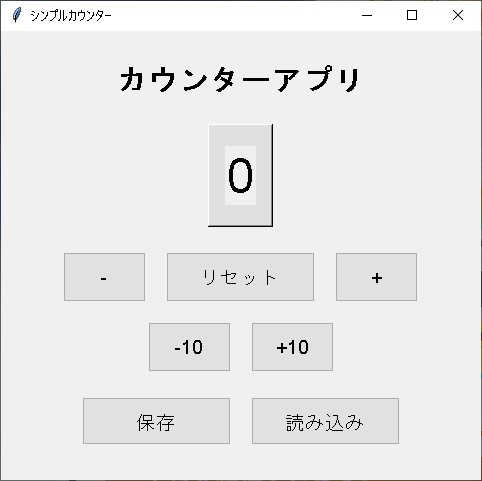
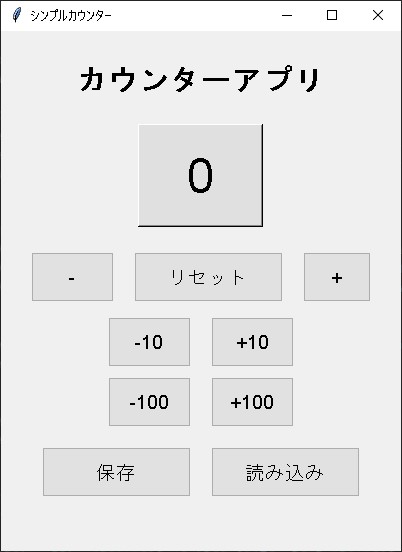
add +-100 and prohibit less than 0

diff --git a/counter_app.py b/counter_app.py
@@ -9,13 +9,14 @@ class CounterApp:
         
         # ウィンドウの設定
         self.root.title("シンプルカウンター")
-        self.root.geometry("480x360")
+        self.root.geometry("400x520")
         self.root.configure(bg="#f0f0f0")
         
         # スタイルの設定
         self.style = ttk.Style()
         self.style.configure("TButton", font=("Helvetica", 14), padding=10)
         self.style.configure("TLabel", font=("Helvetica", 16), background="#f0f0f0")
+        self.style.configure("Counter.TLabel", font=("Helvetica", 36), background="#e0e0e0", cursor="hand2")
         
         # メインフレーム
         self.main_frame = tk.Frame(self.root, bg="#f0f0f0", padx=20, pady=20)
@@ -25,12 +26,18 @@ class CounterApp:
         self.title_label = ttk.Label(self.main_frame, text="カウンターアプリ", font=("Helvetica", 22, "bold"))
         self.title_label.pack(pady=10)
         
-        # カウンター表示
+        # カウンター表示（クリック可能）
         self.counter_frame = tk.Frame(self.main_frame, bg="#e0e0e0", padx=15, pady=15, bd=2, relief=tk.RAISED)
         self.counter_frame.pack(pady=15)
         
-        self.counter_label = ttk.Label(self.counter_frame, text=str(self.counter_value), font=("Helvetica", 36))
-        self.counter_label.pack(pady=5)
+        self.counter_label = ttk.Label(self.counter_frame, text=str(self.counter_value), 
+                                    style="Counter.TLabel", cursor="hand2")
+        self.counter_label.pack(pady=5, padx=30)
+        # カウンターラベルをクリック可能に
+        self.counter_label.bind("<Button-1>", lambda e: self.increment())
+        # マウスが上に来たときにホバー効果を追加
+        self.counter_label.bind("<Enter>", lambda e: self.counter_frame.config(bg="#d0d0d0"))
+        self.counter_label.bind("<Leave>", lambda e: self.counter_frame.config(bg="#e0e0e0"))
         
         # ボタンフレーム - 基本操作
         self.button_frame = tk.Frame(self.main_frame, bg="#f0f0f0")
@@ -50,7 +57,7 @@ class CounterApp:
         
         # ボタンフレーム - 10ずつ操作
         self.button_frame_10 = tk.Frame(self.main_frame, bg="#f0f0f0")
-        self.button_frame_10.pack(pady=10)
+        self.button_frame_10.pack(pady=5)
         
         # 10ずつ減少ボタン (-10)
         self.decrement_10_button = ttk.Button(self.button_frame_10, text="-10", command=self.decrement_10, width=5)
@@ -59,6 +66,18 @@ class CounterApp:
         # 10ずつ増加ボタン (+10)
         self.increment_10_button = ttk.Button(self.button_frame_10, text="+10", command=self.increment_10, width=5)
         self.increment_10_button.pack(side=tk.LEFT, padx=10)
+        
+        # ボタンフレーム - 100ずつ操作
+        self.button_frame_100 = tk.Frame(self.main_frame, bg="#f0f0f0")
+        self.button_frame_100.pack(pady=5)
+        
+        # 100ずつ減少ボタン (-100)
+        self.decrement_100_button = ttk.Button(self.button_frame_100, text="-100", command=self.decrement_100, width=5)
+        self.decrement_100_button.pack(side=tk.LEFT, padx=10)
+        
+        # 100ずつ増加ボタン (+100)
+        self.increment_100_button = ttk.Button(self.button_frame_100, text="+100", command=self.increment_100, width=5)
+        self.increment_100_button.pack(side=tk.LEFT, padx=10)
         
         # 保存・読み込みフレーム
         self.save_frame = tk.Frame(self.main_frame, bg="#f0f0f0")
@@ -76,13 +95,22 @@ class CounterApp:
         
         # 保存済みデータがあれば読み込む
         self.load_counter()
+        
+        # ヘルプテキスト
+        help_text = "※数字をクリックすると+1できます（カウンターは0未満になりません）"
+        self.help_label = ttk.Label(self.main_frame, text=help_text, font=("Helvetica", 10), foreground="#666666")
+        self.help_label.pack(pady=0)
     
     def increment(self):
         self.counter_value += 1
         self.update_display()
     
     def decrement(self):
-        self.counter_value -= 1
+        # 0未満にならないように制限
+        if self.counter_value > 0:
+            self.counter_value -= 1
+        else:
+            self.show_status("カウンターは0未満にできません", True)
         self.update_display()
     
     def increment_10(self):
@@ -91,9 +119,39 @@ class CounterApp:
         self.show_status(f"+10: {self.counter_value}になりました")
     
     def decrement_10(self):
-        self.counter_value -= 10
+        # 0未満にならないように制限
+        if self.counter_value >= 10:
+            self.counter_value -= 10
+            self.show_status(f"-10: {self.counter_value}になりました")
+        else:
+            # 0にする
+            if self.counter_value > 0:
+                old_value = self.counter_value
+                self.counter_value = 0
+                self.show_status(f"{old_value}から0にリセットしました", True)
+            else:
+                self.show_status("カウンターは0未満にできません", True)
         self.update_display()
-        self.show_status(f"-10: {self.counter_value}になりました")
+    
+    def increment_100(self):
+        self.counter_value += 100
+        self.update_display()
+        self.show_status(f"+100: {self.counter_value}になりました")
+    
+    def decrement_100(self):
+        # 0未満にならないように制限
+        if self.counter_value >= 100:
+            self.counter_value -= 100
+            self.show_status(f"-100: {self.counter_value}になりました")
+        else:
+            # 0にする
+            if self.counter_value > 0:
+                old_value = self.counter_value
+                self.counter_value = 0
+                self.show_status(f"{old_value}から0にリセットしました", True)
+            else:
+                self.show_status("カウンターは0未満にできません", True)
+        self.update_display()
     
     def reset(self):
         self.counter_value = 0
@@ -121,9 +179,14 @@ class CounterApp:
         try:
             if os.path.exists("counter.txt"):
                 with open("counter.txt", "r") as file:
-                    self.counter_value = int(file.read().strip())
+                    value = int(file.read().strip())
+                    # 読み込み時も0未満の値は0にする
+                    self.counter_value = max(0, value)
                     self.update_display()
-                    self.show_status("前回の値を読み込みました")
+                    if value < 0:
+                        self.show_status("負の値が保存されていたため、0にリセットしました", True)
+                    else:
+                        self.show_status("前回の値を読み込みました")
         except Exception as e:
             self.show_status(f"読み込みエラー: {str(e)}", True)
 
